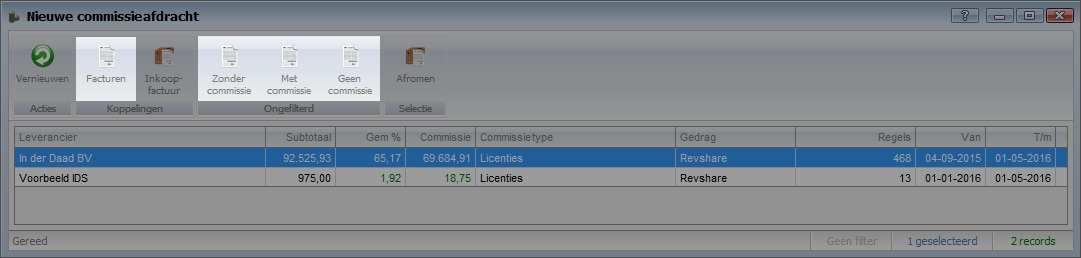
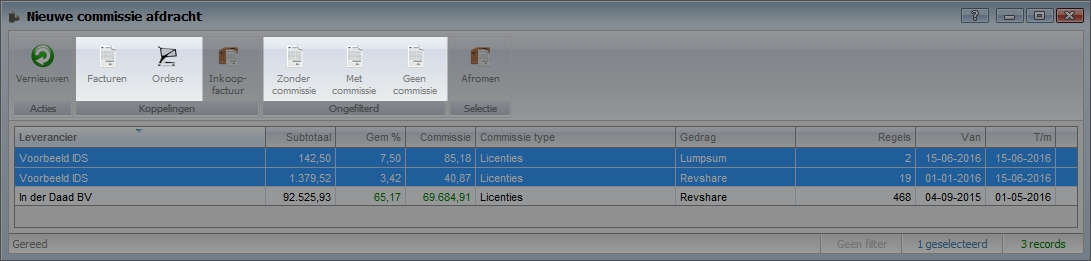
diverse aanpassingen

diff --git a/support-site/modulesAM/commissiebeheer/commissies-instellen/commissie-instellen.md b/support-site/modulesAM/commissiebeheer/commissies-instellen/commissie-instellen.md
@@ -10,19 +10,21 @@
 	</menu>
 </properties>
 
-# Commsissies instellen #
+# Commissies instellen #
 
-Deze rubriek zal meer duidelijkheid te geven over het beheren van commissies met commissiebeheer van Hybrid SaaS. Synoniemen voor commissies zijn onder ander provisies, courtage en procura. In deze beschrijving zal veelal het woord “commissies” worden gebruikt.
+Deze rubriek zal meer duidelijkheid te geven over het beheren van commissies met commissiebeheer van Hybrid SaaS. Synoniemen voor commissies zijn onder ander provisies, courtage en procura, Revshare management. In deze beschrijving zal voormalig het woord “commissie” worden gebruikt.
 
 Om geen misverstanden te krijgen worden eerst enkele definities benoemd:
 
 **Revenu share** (variabele prijs) : Commissie op basis van een percentage van gerealiseerde omzet (facturen)
+
 Voorbeeld:
 - Product A	€100,-	(per maand)
 - Percentage		15%
 - Resultaat: 100 * 15% = €15,--
 
-**Lumpsum** (vastgestelde prijs): Commissies op basis van een percentage van orders. De som van alles orders maakt de contractwaarde. Lumpsum is het resultaat van de orderregeltotaal * looptijd * commissies percentage.
+**Lumpsum** (vastgestelde prijs): Commissie op basis van een percentage van orders. De som van alle orders maakt de contractwaarde. Lumpsum is het resultaat van de orderregeltotaal * looptijd * commissiepercentage.
+
 Voorbeeld: 
 
 - Product A	€100,-	(per maand)
@@ -30,20 +32,24 @@ Voorbeeld:
 - Percentage		15%
 - Resultaat: 100 * 24 * 15% = €360,--
 
-## Commissie sets aanmaken ##
-In een commissie set wordt een verzameling met afspraken vastgelegd voor de berekening van commissies op facturen en orders. In de set wordt het percentage en de onderdelen waarop deze van toepassing zijn vastgelegd. Tevens kunnen hier targets worden vastgelegd waar de set betrekking op heeft. 
+**Afromen**: Het uitrekenen, definitief maken en omzetten van commissies naar een commissie overzicht
 
-Zoek vanuit het startmenu naar **Commissie set** > **Toevoegen**
+
+## Commissie sets aanmaken ##
+In een commissie set wordt een verzameling met afspraken vastgelegd voor de berekening van commissies op facturen en orders. In de set wordt het percentage en de onderdelen waarop deze van toepassing zijn vastgelegd. Tevens kunnen hier targets (aantal verkochte units) worden vastgelegd waar de set betrekking op heeft. 
+
+Zoek vanuit het startmenu naar **Commissie set** 
+Kies vervolgens **Toevoegen**
 
 ![Commissie set toevoegen](images/commissie_set_toevoegen.jpg)
 
 ### Basisgegevens commissies invullen ###
 
-Selecteer de juiste **grootboekrekening** (GL-code)
+Selecteer de juiste **Grootboekrekening** (GL-code)
 
-Geef een duidelijke **omschrijving** 
+Geef **Omschrijving** in
 
-Kies het **gedrag** waarop het percentage toegepast dient te worden:
+Kies het **Gedrag** waarop het percentage toegepast dient te worden:
 -	Revshare (Factuur)
 -	Lumpsum (Order)
 
@@ -51,7 +57,7 @@ Vul het commissiepercentage in
 
 ![Commissie set gegevens invullen](images/commissie_set_gegevens_invullen.jpg)
 
-<div class="info">
+<div class="tip">
 Korting verdelen: Indien er korting wordt gegeven aan de klant is het mogelijk deze korting te delen met de partner. Bij het invullen van een percentage zal een voorbeeldberekening worden weergegeven.
 </div>
 
@@ -59,24 +65,24 @@ Korting verdelen: Indien er korting wordt gegeven aan de klant is het mogelijk d
 <div class="info">
 Target. Bij Target kan het target percentage worden vastgelegd. 
 Voorbeeld:
+
 - Target 1000 stuks
+
 - Min 35% max 80%
+
 - Resultaat: vanaf 350 stuks t/m 800 stuks
 </div>
 
-### Commissieregels toevoegen aan commissieafspraken ###
+### Commissieregels toevoegen in commissieset ###
 
 Klik op **Toevoegen** om commissieregels toe te voegen aan de set.
 
 ![Commissieregels toevoegen aan set](images/commissieregels_toevoegen_aan_set.jpg)
 
-## Commissieregels beheren ##
-
-Wanneer de commissieregel wordt toegevoegd verschijnt het volgende scherm.
-
-![Commissieregels beheren](images/commissieregels_beheren.jpg)
 
 Selecteer de onderdelen waarop het commissiepercentage toegepast dient te worden. 
+
+![Commissieregels beheren](images/commissieregels_beheren.jpg)
 
 <div class="info">
 Het is veelal niet mogelijk om meerdere onderdelen te selecteren in één afspraak. Indien een tweede onderdeel wordt gekozen zal de eerste selectie komen te vervallen.
@@ -86,7 +92,7 @@ Het is veelal niet mogelijk om meerdere onderdelen te selecteren in één afspra
 Veelal zal de commissie van toepassing zijn op een product, productsubgroep of productgroep.
 </div>
 
-<div class="info">
+<div class="tip">
 Selecteer een klant bij "bedrijf selecteren" indien een speciale afspraak van toepassing is bij een specifieke klant.
 </div>
 
@@ -98,7 +104,7 @@ Het is mogelijk om afwijkende voorwaarden te laten prevaleren boven de voorwaard
 
 ## Set koppelen aan de partner ##
 
-Nadat set is aangemaakt dient deze aan de juiste partner(s) gekoppeld te worden.
+Nadat set is aangemaakt dient deze aan de juiste partner(s) gekoppeld te worden. Bij iedere order en factuur welke wordt aangemaakt bij een relatie waarvan de partner accountmanagers is, zal de commissie op basis van de gekozen set worden uitgerekend.
 
 ### Set toevoegen ###
 
@@ -114,24 +120,24 @@ Klik op **Toevoegen** om een commissie set te selecteren
 
 ### Set definiëren ###
 
-Selecteer de betreffende accountmanager 
+Selecteer de betreffende accountmanager (naam van de partner) 
 
-<div class="info">
-Indien deze nog niet is aangemaakt raadpleeg de volgende [handleiding](http://hybridsaas.support/pages/support-site/het-systeem/gebruikers-toevoegen-SSO-API/toevoegen "Nieuwe gebruikers toevoegen (autorisatie afhankelijk)")  
+<div class="tip">
+Indien deze nog niet is aangemaakt raadpleeg de volgende handleiding http://hybridsaas.support/pages/support-site/het-systeem/gebruikers-toevoegen-SSO-API/toevoegen  
 </div>
 
-Selecteer de **commissie set**
+Selecteer de **Commissie set**
 
-Selecteer de **startdatum** en **einddatum** welke is terug te vinden in de partnerovereenkomst
+Selecteer de **Startdatum** en **Einddatum** welke is terug te vinden in de partnerovereenkomst
 
 ![Contractafspraken vastleggen](images/contractafspraken_vastleggen.jpg) 
 
-<div class="info">
-Wachten op betaling: Indien deze optie is geselecteerd zal de commissie pas worden uitgekeerd indien de factuur door de klant is voldaan.
+<div class="tip">
+Wachten op betaling: Indien deze optie is geselecteerd zal de commissie worden uitgekeerd wanneer de factuur door de klant is voldaan.
 </div>
 
 <div class="info">
-Gearchiveerd: Indien deze optie is geselecteerd zal de commissieafspraak op inactief worden gezet, waarbij de gekoppelde data zal worden bewaard.
+Gearchiveerd: Indien deze optie is geselecteerd zal de commissieafspraak op inactief worden gezet. De gekoppelde data zal worden bewaard.
 </div>
 
 ## Lumpsum instellingen op orders ##
@@ -147,7 +153,7 @@ Vul de begin en einddatum in
 ![Contractafspraken vastleggen op order](images/contractinstellingen_op_order.jpg) 
 
 
-<div class="info">
+<div class="tip">
 Indien een bestaand contract wordt gekoppeld zullen de looptijden uit het contract worden overgenomen.
 </div>
 

diff --git a/support-site/modulesAM/commissiebeheer/commissies-controleren-en-uitkeren/commissie-controleren-en-uitkeren.md b/support-site/modulesAM/commissiebeheer/commissies-controleren-en-uitkeren/commissie-controleren-en-uitkeren.md
@@ -12,29 +12,31 @@
 
 # Overzicht van nieuwe commissies #
 
-Deze rubriek zal meer duidelijkheid te geven over het controleren en uitkeren van commissies met commissiebeheer van Hybrid SaaS. Synoniemen voor commissies zijn onder ander provisies, courtage en procura. In deze beschrijving zal veelal het woord “commissies” worden gebruikt.
+Deze rubriek zal meer duidelijkheid geven over het controleren en uitkeren van commissies met commissiebeheer van Hybrid SaaS. Synoniemen voor commissies zijn onder ander provisies, courtage en procura, Revshare management. In deze beschrijving zal voormalig het woord “commissie” worden gebruikt.
 
 ## Nieuwe commissieafdracht ##
 
 Zoek vanuit het startmenu naar **Nieuwe commissieafdracht** 
 
-Alle nieuwe commissies worden per partner en per type weergegeven.
+Alle nieuwe commissies worden per partner, type en gedrag weergegeven.
 
 ![Uitleg content commissieoverzicht](images/nieuwe_commissieafdracht_contentbeschrijving.jpg)
 
 Van links naar rechts wordt de volgende data weergegeven.
 
 - **Leverancier**:	Naam van de partner
-- **Subtotaal**:		Subtotaal van alle facturen waar commissie over berekend is
-- **Gem%**:			Gemiddelde commissiepercentage (commissiebedrag/subtotaal)
-- **Commissie**:		Totale commissiebedrag
-- **Commissietype**:	Het type commissie (dit kan handmatig worden ingesteld op de commissieregels)
+- **Subtotaal**:		Subtotaal bedrag van alle facturen waar commissie over berekend is in deze periode
+- **Gem%**:			Gemiddelde commissiepercentage (commissiebedrag/subtotaal) in deze periode
+- **Commissie**:		Totale commissiebedrag in deze periode
+- **Commissietype**:	Het type commissie (dit kan handmatig worden ingesteld op de commissie set)
 - **Gedrag**:			Waarop is de commissie berekend (Orders of Facturen)
-- **Regels**:			Het aantal regels waarover de commissie is berkend
-- **van**:			Datum van de eerste orderof factuurregel waar nog geen commissie over uitbetaald is
-- **t/m**:			Datum van de laatste orderof factuurregel waar nog geen commissie over uitbetaald is
+- **Regels**:			Het aantal regels waarover de commissie is berekend in deze periode
+- **van**:			Datum van de eerste order of factuurregel waar nog geen commissie over uitbetaald is
+- **t/m**:			Datum van de laatste order of factuurregel waar nog geen commissie over uitbetaald is
 
-
+<div class="info">
+In dit overzicht worden alle commissies weergeven welke nog niet verwerkt zijn. Reeds uitbetaalde commissies zijn terug te vinden bij de inkoopfacturen (commissieoverzichten) van de partner.
+</div>
 
 Bovenin wordt het onderstaande actielint weergegeven
 
@@ -44,6 +46,7 @@ Van links naar rechts worden de volgende actieknoppen weergegeven.
 
 - **Vernieuwen**:			Data op het scherm verversen (let op hiermee worden de commissies niet opnieuw uitgerekend)
 - **Facturen**:			Alle facturen waarover commissie is berekend (Let op! enkel zichtbaar na selectie van commissieregel)
+- **Orders**:				Alle orders waarover commissie is berekend (Let op! enkel zichtbaar na selectie van commissieregel)
 - **Inkoop**:				Alle inkoopfacturen (commissieoverzichten) welke de status "Te verzenden" hebben
 - **Zonder commissie**:	Alle facturen waarover geen commissie is berekend
 - **Met commissie**:		Alle facturen waarover commissie is berekend
@@ -63,6 +66,10 @@ Wanneer één of meerdere regels worden geselecteerd zullen de onderstaande acti
 
 - **Niet meer weergeven**:	Hiermee worden de betreffende facturen uitgesloten van commissies (de facturen zullen worden weergegeven bij "Geen commissie"
 - **Herberekenen commissies**: Hiermee kunnen alle commissies worden herberekend van de geselecteerde regels.
+
+<div class="tip">
+Zie voor meer informatie over herberekenen en uitsluiten http://hybridsaas.support/pages/support-site/modulesAM/commissiebeheer/commissie-aanpassen-en-herberekenen/commissie-aanpassen-en-herberekenen
+</div>
 
 ### Commissies afromen ###
 
@@ -86,7 +93,7 @@ Automatisch: De commissie zal worden uitgerekend t/m de datum van vandaag
 </div>
 
 <div class="info">
-Afwijkend: Kies de datum t/m de commissie uitgerekend dient te worden en klik op de knop "afwijkend" 
+Afwijkend: Kies de datum t/m waar de commissie uitgerekend dient te worden en klik op de knop "afwijkend" 
 </div>
 
 ## Commissieoverzicht ##
@@ -115,7 +122,7 @@ Regels inzien: Overzicht van alle van alle regels zal worden weergegeven
 Factuur rapportage: Overzicht van alle factuurregels zal worden weergeven in .XLS formaat.
 </div>
 
-Tevens is het mogelijk om de details per regel in te zien. Open hiervoor de factuurkaart en open de regel.
+Tevens is het mogelijk om de details per regel in te zien. Open hiervoor de factuurkaart en open de regel voor meer informatie.
 
 ![Details commissieoverzicht inzien](images/details_commissieregel_inzien.jpg)
 

diff --git a/support-site/modulesAM/contractenbeheer/handige-weetjes/handige-weetjes.md b/support-site/modulesAM/contractenbeheer/handige-weetjes/handige-weetjes.md
@@ -14,15 +14,18 @@
 Het contractbeheer van Hybrid SaaS is uitgebreid met vele functies. Sommige functies zullen makkelijker te begrijpen zijn dan andere. Deze rubriek zal antwoord geven op de meest voorkomende functies zodat het contactbeheer perfect kan worden ingericht en worden afgestemd op de organisatie.
 
 ## Importeren van een order in een contract ##
-Door middel van een paar stappen is het mogelijk om een order om te zetten in een contract. 
+Door middel van een paar stappen is het mogelijk om een order om te zetten in een (bestaand) contract. 
 
 Keur de order goed door op **Goedkeuren** te klikken, handel de order af door op **Afgehandeld** te klikken, klik vervolgens op **Contract** om de order om te zetten in een contract.
 
 ![Order omzetten in een contract](images/order_omzetten_in_een_contract.png)
 
 <div class="info">
-Indien er een contract wordt gevonden van dezelfde relatie zal de volgende melding worden weergegeven: "Er zijn lopende contracten gevonden wilt u deze order hier aan toevoegen?".
+Indien er een contract wordt gevonden van dezelfde relatie zal de volgende melding worden weergegeven: 
+"Er zijn lopende contracten gevonden wilt u deze order hier aan toevoegen?".
+
 Ja: Kies het contract waar de order aan toegevoegd dient te worden. De orderregels zullen aan het lopende contract worden toegevoegd.
+
 Nee: Op basis van order zal een nieuw contract worden aangemaakt.
 </div>
 
@@ -31,7 +34,7 @@ Nee: Op basis van order zal een nieuw contract worden aangemaakt.
 
 Het is mogelijk om de looptijd (begin- en einddatum) vast te leggen.
 
-<div class="info">
+<div class="tip">
 Door een bestaand contract te koppelen in de order is het mogelijk om de begin-, einddatum en voorwaarden over te nemen.
 </div>
 
@@ -65,19 +68,23 @@ Indien gewenst is het mogelijk om de de factor aan te passen. De factor is het a
 
 
 ### Aantal van orderregel wordt als losse regels opgeslagen ###
-Bij het importeren van een order in een contract zal het aantal van de orderregel als losse regels worden geïmporteerd onder het tabblad variabele looptijden. Op deze manier kan ieder product afzonderlijk worden beheert op begin- en eindtijden.
+Bij het importeren van een order in een contract zal het aantal van de orderregel als losse regels worden geïmporteerd onder het tabblad variabele looptijden. Op deze manier kan ieder product afzonderlijk worden beheert op begin- en einddatum.
 
 ![Orderregels worden als losse regels opgeslagen in het contract](images/losse_contractregels_na_importeren_order.png)
 
 ### Product aanmerken als repeterende kosten (maandelijks terugkerende kosten) ###
-Producttype vastleggen. Een product kan als eenmalige maar ook als repeterend worden aangemerkt. Geef op de productkaart aan of het product repeterend is door het vinkje aan te zetten.
+Een product kan als eenmalige maar ook als repeterend worden aangemerkt. Geef op de productkaart aan of het product repeterend is door het vinkje aan te zetten.
 
 Ga naar et tabblad **Prijzen**, zet het vinkje aan bij **Repeterende kosten**
 
 ![Producten instellen als repeterende kosten](images/product_aanmerken_als_repeterend.png)
 
+<div class="info">
+Indien deze functie is aangevinkt zal het product als eenmalige kosten worden toegevoegd op het contract.
+</div>
+
 ### Product uitsluiten om te importeren in een contract ###
-Het is mogelijk om producten uit te sluiten om te importeren in een contract. Op deze manier blijven de producten op de order staan maar worden deze niet meegenomen op het contact.
+Het is mogelijk om producten uit te sluiten om te importeren in een contract. Op deze manier blijven de producten op de order staan maar worden deze bij de import niet meegenomen naar het contact.
 
 Ga naar het tabblad **Prijzen**, zet het vinkje aan bij **Niet importeren in contract**
 
@@ -140,6 +147,6 @@ Er zijn 3 verschillende methoden om facturen op te maken op basis van contracten
 
 ![Facturen opmaken vanuit planningsoverzicht contract](images/factuur_aanmaken_via_planning.png)
 
-<div class="info">
+<div class="warning">
 In alle bovenstaande gevallen zal de factuur worden weergegeven bij Nieuwe facturen. 
 </div>

diff --git a/support-site/modulesAM/commissiebeheer/commissie-aanpassen-en-herberekenen/commissie-aanpassen-en-herberekenen.md b/support-site/modulesAM/commissiebeheer/commissie-aanpassen-en-herberekenen/commissie-aanpassen-en-herberekenen.md
@@ -76,13 +76,20 @@ Selecteer één of meerdere regels en klik op herberekenen.
 ![Commissie herberekenen bulkactie](images/commisie_herberkenen_bulk.jpg)
 
 
+<div class="info">
+Alle commissies in de geselecteerde facturen zullen worden herberekend indien deze zijn aangepast.
+</div>
+
 ## Facturen uitsluiten voor commissie ##
 
 Het is mogelijk om facturen en orders uit te sluiten voor commissies. Hiervoor zijn een aantal manieren.
-- Individueel uitsluiten
+- Individueel uitsluiten per factuur of order
 - Uitsluiten op bulkniveau
 
 ### Individueel uitsluiten ###
+
+Selecteer de hieronder weergegeven opties.
+
 **Factuur**
 ![Commissie uitsluiten op factuurniveau](images/commisie_uitsluiten_factuurniveau.jpg)
 
@@ -93,7 +100,7 @@ Het is mogelijk om facturen en orders uit te sluiten voor commissies. Hiervoor z
 
 ### Uitsluiten op bulkniveau ###
 
-Ga naar "Nieuwe commissieafdracht". Klik op één van de actieknoppen.
+Ga naar **Nieuwe commissieafdracht**. Klik op één van de actieknoppen.
 
 ![Facturen partner inzien](images/nieuwe_commissieafdracht_actieknoppen_details.jpg)
 
@@ -116,6 +123,6 @@ Selecteer een commissieregel en klik op **Inzien** om de details van de regel in
 Commissie wordt pas aangeboden voor afroming indien de verkoopfactuur is goedgekeurd en verzonden.
 </div>
 
-<div class="info">
+<div class="warning">
 Commissie is pas definitief indien de inkoopfactuur (lees: commissieoverzicht) minimaal is gefiatteerd door manager.
 </div>
